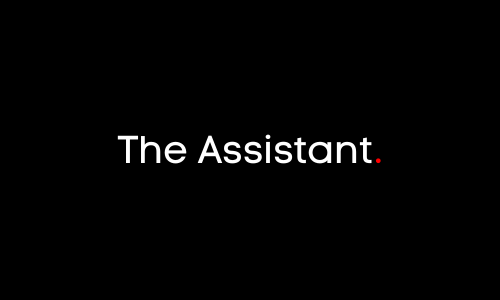
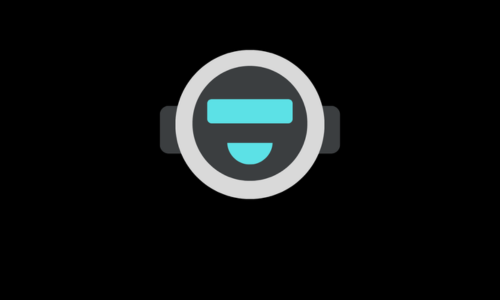
feat: update image URLs to use raw GitHub links and add new image source in next.config.mjs

Changed region(s): [[0.24, 0.15, 0.78, 0.69]]

diff --git a/src/data/resume.tsx b/src/data/resume.tsx
@@ -3,6 +3,8 @@ import { FaBusinessTime } from "react-icons/fa";
 import { TbCertificate } from "react-icons/tb";
 import { HomeIcon, NotebookIcon, TerminalIcon, MailIcon } from "lucide-react";
 
+const githubUrl = "https://raw.githubusercontent.com/rahfianugerah/portfolio/main/public/";
+
 export const DATA = {
   name: "Naufal Rahfi Anugerah",
   initials: "R",
@@ -82,7 +84,7 @@ export const DATA = {
       badges: [],
       location: "Tangerang Selatan, Indonesia",
       title: "AI Software Engineer",
-      logoUrl: "/amn-exp.png",
+      logoUrl: `${githubUrl}amn-exp.png`,
       start: "Sep 2025",
       end: "Present",
       description: [
@@ -97,7 +99,7 @@ export const DATA = {
       badges: [],
       location: "Tangerang Selatan, Indonesia",
       title: "Co-Founder",
-      logoUrl: "/amn-exp.png",
+      logoUrl: `${githubUrl}amn-exp.png`,
       start: "Sep 2025",
       end: "Present",
       description: [
@@ -112,7 +114,7 @@ export const DATA = {
       badges: ["Remote", "Machine Learning", "Cohort"],
       location: "Jakarta, Indonesia",
       title: "Machine Learning Cohort",
-      logoUrl: "/asah-exp.png",
+      logoUrl: `${githubUrl}asah-exp.png`,
       start: "Aug 2025",
       end: "Jan 2026",
       description: [
@@ -127,7 +129,7 @@ export const DATA = {
       badges: ["Remote", "Freelance", "Code Review", "Mentor", "Machine Learning", "Deep Learning", "Google Cloud"],
       location: "Jakarta, Indonesia",
       title: "External Academy Code Reviewer",
-      logoUrl: "/dicoding-exp.jpeg",
+      logoUrl: `${githubUrl}dicoding-exp.jpeg`,
       start: "Mar 2025",
       end: "Present",
       description: [
@@ -142,7 +144,7 @@ export const DATA = {
       badges: ["Student", "Machine Learning", "Deep Learning"],
       location: "Jakarta, Indonesia",
       title: "Machine Learning Student",
-      logoUrl: "/dicoding-exp.jpeg",
+      logoUrl: `${githubUrl}dicoding-exp.jpeg`,
       start: "April 2024",
       end: "Aug 2024",
       description: [
@@ -157,7 +159,7 @@ export const DATA = {
       href: "#",
       location: "Jakarta, Indonesia",
       title: "AI & IoT Development Trainee",
-      logoUrl: "/sic-exp.jpg",
+      logoUrl: `${githubUrl}sic-exp.jpg`,
       start: "Jan 2025",
       end: "Feb 2025",
       description: [
@@ -172,7 +174,7 @@ export const DATA = {
       badges: ["Remote", "Cloud Computing", "Cohort"],
       location: "Jakarta, Indonesia",
       title: "Cloud Computing Cohort",
-      logoUrl: "/bangkit-exp.jpg",
+      logoUrl: `${githubUrl}bangkit-exp.jpg`,
       start: "Aug 2024",
       end: "Jan 2025",
       description: [
@@ -187,7 +189,7 @@ export const DATA = {
       badges: ["Part-Time", "On-Site", "Back-End Development", "Mentor", "RESTful API Development"],
       location: "Jakarta, Indonesia",
       title: "Back-End Research and Development Associate",
-      logoUrl: "/aslab-exp.jpg",
+      logoUrl: `${githubUrl}aslab-exp.jpg`,
       start: "Jan 2024",
       end: "Feb 2025",
       description: [
@@ -202,7 +204,7 @@ export const DATA = {
       badges: ["Part-Time", "On-Site"],
       location: "Jakarta, Indonesia",
       title: "Sr. Computer Laboratory Assistant",
-      logoUrl: "",
+      logoUrl: `${githubUrl}aslab-exp.jpg`,
       start: "Jan 2024",
       end: "Feb 2025",
       description: [
@@ -217,7 +219,7 @@ export const DATA = {
       badges: ["Part-Time", "On-Site"],
       location: "Jakarta, Indonesia",
       title: "Jr. Computer Laboratory Assistant",
-      logoUrl: "",
+      logoUrl: `${githubUrl}aslab-exp.jpg`,
       start: "Apr 2023",
       end: "Jan 2024",
       description: [
@@ -232,7 +234,7 @@ export const DATA = {
       badges: ["Hybrid", "Community"],
       location: "Jakarta, Indonesia",
       title: "GDSC Member",
-      logoUrl: "/gdsc-exp.jpg",
+      logoUrl: `${githubUrl}gdsc-exp.jpg`,
       start: "Dec 2023",
       end: "Oct 2024",
       description: [
@@ -247,7 +249,7 @@ export const DATA = {
       badges: ["Remote", "AWS", "Trainee"],
       location: "Jakarta, Indonesia",
       title: "AWS Engineer Trainee",
-      logoUrl: "/dts-exp.jpg",
+      logoUrl: `${githubUrl}dts-exp.jpg`,
       start: "Feb 2024",
       end: "Mar 2024",
       description: [
@@ -262,7 +264,7 @@ export const DATA = {
       school: "Mercu Buana University",
       href: "https://mercubuana.ac.id",
       degree: "Bachelor's Degree of Computer Science",
-      logoUrl: "/umb-edu.jpg",
+      logoUrl: `${githubUrl}umb-edu.jpg`,
       start: "2022",
       end: "2026",
       description: [
@@ -276,7 +278,7 @@ export const DATA = {
       school: "Asah led by Dicoding in association with Accenture",
       href: "https://www.dicoding.com",
       degree: "Non-Degree Program in Machine Learning - Machine Learning Cohort",
-      logoUrl: "/asah-exp.png",
+      logoUrl: `${githubUrl}asah-exp.png`,
       start: "Aug 2025",
       end: "Jan 2026",
       description: [
@@ -288,7 +290,7 @@ export const DATA = {
       school: "Bangkit Academy 2024 Batch 2 - Bangkit led by Google, Goto and Traveloka",
       href: "https://grow.google/intl/id_id/bangkit/?tab=cloud-computing",
       degree: "Non-Degree Program in Cloud Computing - Cloud Computing Cohort",
-      logoUrl: "/bangkit-exp.jpg",
+      logoUrl: `${githubUrl}bangkit-exp.jpg`,
       start: "Aug 2024",
       end: "Jan 2025",
       description: [
@@ -304,7 +306,7 @@ export const DATA = {
       badges: ["Remote", "Machine Learning", "Cohort", "Project Lead", "Modeling", "AI Engineering"],
       location: "Jakarta, Indonesia",
       title: "Capstone Project Manager",
-      logoUrl: "/asah-exp.png",
+      logoUrl: `${githubUrl}asah-exp.png`,
       start: "Oct 2025",
       end: "Jan 2026",
       description: [
@@ -319,7 +321,7 @@ export const DATA = {
       badges: ["Full-Time", "Project Lead", "Back-End Engineering", "Cloud Engineering", "AI Engineering"],
       location: "Jakarta, Indonesia",
       title: "Project Manager - Information Systems Development Project",
-      logoUrl: "/umb-edu.jpg",
+      logoUrl: `${githubUrl}umb-edu.jpg`,
       start: "Mar 2025",
       end: "Jul 2025",
       description: [
@@ -334,7 +336,7 @@ export const DATA = {
       badges: ["Project Lead"],
       location: "Jakarta, Indonesia",
       title: "Project Team Lead",
-      logoUrl: "/sic-exp.jpg",
+      logoUrl: `${githubUrl}sic-exp.jpg`,
       start: "Jan 2025",
       end: "Feb 2025",
       description: [
@@ -349,7 +351,7 @@ export const DATA = {
       badges: ["Remote", "Cloud Computing", "Cohort", "Project Lead", "Back-End Engineering", "Cloud Engineering"],
       location: "Jakarta, Indonesia",
       title: "Capstone Project Manager",
-      logoUrl: "/bangkit-exp.jpg",
+      logoUrl: `${githubUrl}bangkit-exp.jpg`,
       start: "Nov 2024",
       end: "Dec 2024",
       description: [
@@ -392,7 +394,7 @@ export const DATA = {
           icon: <Icons.github className="size-3" />,
         },
       ],
-      image: "/rahfipro.png",
+      image: `${githubUrl}rahfipro.png`,
       video: "",
 
     },
@@ -425,7 +427,7 @@ export const DATA = {
           icon: <Icons.github className="size-3" />,
         },
       ],
-      image: "/aegis-project.png",
+      image: `${githubUrl}aegis-project.png`,
       video: "",
     },
     {
@@ -450,7 +452,7 @@ export const DATA = {
           icon: <Icons.github className="size-3" />,
         },
       ],
-      image: "/satria-final.png",
+      image: `${githubUrl}satria-final.png`,
       video: "",
     },
     {
@@ -473,7 +475,7 @@ export const DATA = {
           icon: <Icons.github className="size-3" />,
         },
       ],
-      image: "/satria-prototype.png",
+      image: `${githubUrl}satria-prototype.png`,
       video: "",
     },
 
@@ -501,7 +503,7 @@ export const DATA = {
           icon: <Icons.github className="size-3" />,
         },
       ],
-      image: "/hanacaraka-project.png",
+      image: `${githubUrl}hanacaraka-project.png`,
       video: "",
     },
     {
@@ -529,7 +531,7 @@ export const DATA = {
           icon: <Icons.github className="size-3" />,
         },
       ],
-      image: "/hybrid-cnn-vit-project.png",
+      image: `${githubUrl}hybrid-cnn-vit-project.png`,
       video: "",
     },
     {
@@ -551,7 +553,7 @@ export const DATA = {
           icon: <Icons.github className="size-3" />,
         },
       ],
-      image: "/unified-convnext-pipeline-project.png",
+      image: `${githubUrl}unified-convnext-pipeline-project.png`,
       video: "",
     },
     {
@@ -574,7 +576,7 @@ export const DATA = {
           icon: <Icons.github className="size-3" />,
         },
       ],
-      image: "/the-assistant-project.png",
+      image: `${githubUrl}the-assistant-project.png`,
       video: "",
     },
     {
@@ -598,7 +600,7 @@ export const DATA = {
           icon: <Icons.github className="size-3" />,
         },
       ],
-      image: "/codepilot-project.png",
+      image: `${githubUrl}codepilot-project.png`,
       video: "",
     },
     {
@@ -627,7 +629,7 @@ export const DATA = {
           icon: <Icons.github className="size-3" />,
         },
       ],
-      image: "/mlops-heart-failure-project.png",
+      image: `${githubUrl}mlops-heart-failure-project.png`,
       video: "",
     },
     {
@@ -653,7 +655,7 @@ export const DATA = {
           icon: <Icons.github className="size-3" />,
         },
       ],
-      image: "/research-model-project.png",
+      image: `${githubUrl}research-model-project.png`,
       video: "",
     },
     {
@@ -682,7 +684,7 @@ export const DATA = {
           icon: <Icons.github className="size-3" />,
         },
       ],
-      image: "/asah-project.png",
+      image: `${githubUrl}asah-project.png`,
       video: "",
     },
     {
@@ -706,7 +708,7 @@ export const DATA = {
           icon: <Icons.github className="size-3" />,
         },
       ],
-      image: "/intrain-ai-project.png",
+      image: `${githubUrl}intrain-ai-project.png`,
       video: "",
     },
     {
@@ -730,7 +732,7 @@ export const DATA = {
           icon: <Icons.github className="size-3" />,
         },
       ],
-      image: "/eztrip-project.png",
+      image: `${githubUrl}eztrip-project.png`,
       video: "",
     },
     {
@@ -762,7 +764,7 @@ export const DATA = {
           icon: <Icons.github className="size-3" />,
         },
       ],
-      image: "/bangkit-project.png",
+      image: `${githubUrl}bangkit-project.png`,
       video: "",
     },
     {
@@ -791,7 +793,7 @@ export const DATA = {
           icon: <Icons.github className="size-3" />,
         },
       ],
-      image: "/dicoding-project.png",
+      image: `${githubUrl}dicoding-project.png`,
       video: "",
     },
     {
@@ -816,7 +818,7 @@ export const DATA = {
           icon: <Icons.github className="size-3" />,
         },
       ],
-      image: "/dotfiles.png",
+      image: `${githubUrl}dotfiles.png`,
       video: "",
     },
     {
@@ -836,7 +838,7 @@ export const DATA = {
           icon: <Icons.github className="size-3" />,
         },
       ],
-      image: "/commitwave-project.png",
+      image: `${githubUrl}commitwave-project.png`,
       video: "",
     },
   ],

diff --git a/src/app/components/image-carousel.tsx b/src/app/components/image-carousel.tsx
@@ -11,10 +11,10 @@ type ImageCarouselProps = {
 export default function ImageCarousel({ images, intervalMs = 3000 }: ImageCarouselProps) {
   const placeholders = useMemo(
     () => [
-      "/me-google-1.jpeg",
-      "/gemastik-3.jpeg",
-      "/me-google-3.jpeg",
-      "/me-hackathon.jpg",
+      "https://raw.githubusercontent.com/rahfianugerah/portfolio/main/public/me-google-1.jpeg",
+      "https://raw.githubusercontent.com/rahfianugerah/portfolio/main/public/gemastik-3.jpeg",
+      "https://raw.githubusercontent.com/rahfianugerah/portfolio/main/public/me-google-3.jpeg",
+      "https://raw.githubusercontent.com/rahfianugerah/portfolio/main/public/me-hackathon.jpg",
     ],
     []
   );

diff --git a/src/app/components/quote-carousel.tsx b/src/app/components/quote-carousel.tsx
@@ -9,19 +9,19 @@ const quotes = [
     author: "Jensen Huang",
     role: "CEO, NVIDIA",
     text: "Software is eating the world, but AI is going to eat software.",
-    image: "/jensen-huang.jpg" // Ensure these paths start with / if in public folder
+    image: "https://raw.githubusercontent.com/rahfianugerah/portfolio/main/public/jensen-huang.jpg"
   },
   {
     author: "Steve Jobs",
     role: "Co-founder, Apple",
     text: "Being the richest man in the cemetery doesn't matter to me. Going to bed at night saying we've done something wonderful... that's what matters to me",
-    image: "/steve-jobs.jpg"
+    image: "https://raw.githubusercontent.com/rahfianugerah/portfolio/main/public/steve-jobs.jpg"
   },
   {
     author: "Linus Torvalds",
     role: "Creator, Linux",
     text: "Talk is cheap. Show me the code.",
-    image: "/torvalds.jpg"
+    image: "https://raw.githubusercontent.com/rahfianugerah/portfolio/main/public/torvalds.jpg"
   }
 ];
 